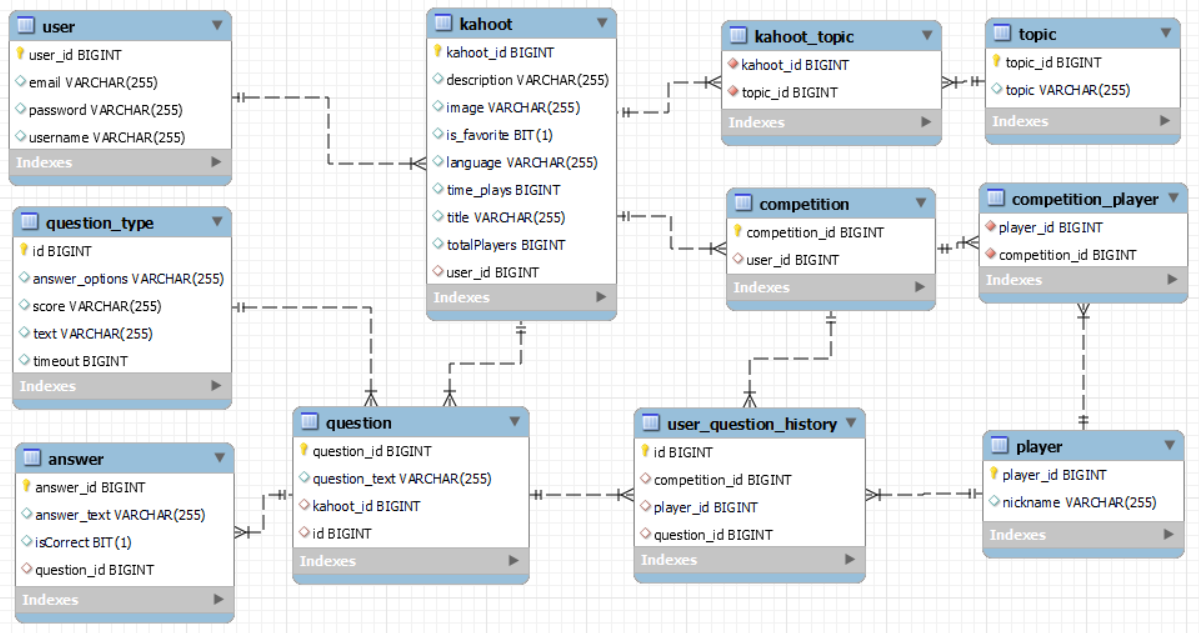
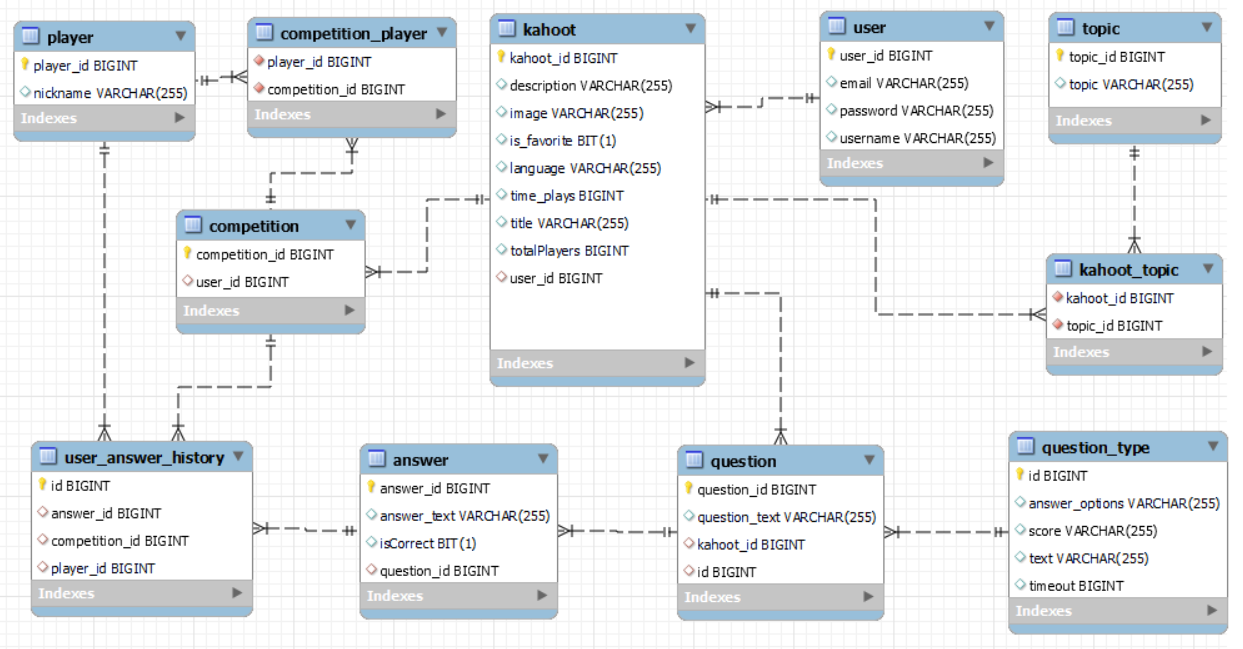
update
new table answer history player

diff --git a/src/main/java/dao/daoImpl/UserQuestionHistoryDao.java b/src/main/java/dao/daoImpl/UserQuestionHistoryDao.java
@@ -8,19 +8,19 @@ import org.hibernate.Transaction;
 
 import HibernateUtils.HibernateUtil;
 import dao.Dao;
-import objects.UserQuestionHistory;
+import objects.UserAnswerHistory;
 
-public class UserQuestionHistoryDao implements Dao<UserQuestionHistory> {
+public class UserQuestionHistoryDao implements Dao<UserAnswerHistory> {
 
 	@Override
-	public UserQuestionHistory get(long id) {
+	public UserAnswerHistory get(long id) {
 		Transaction transaction = null;
-		UserQuestionHistory userQuestionHistory = null;
+		UserAnswerHistory userQuestionHistory = null;
 
 		try (Session session = HibernateUtil.getSessionFactory().openSession()) {
 			transaction = session.beginTransaction();
 
-			userQuestionHistory = session.get(UserQuestionHistory.class, id);
+			userQuestionHistory = session.get(UserAnswerHistory.class, id);
 
 			transaction.commit();
 		} catch (Exception e) {
@@ -34,9 +34,9 @@ public class UserQuestionHistoryDao implements Dao<UserQuestionHistory> {
 
 	@SuppressWarnings("unchecked")
 	@Override
-	public List<UserQuestionHistory> getAll() {
+	public List<UserAnswerHistory> getAll() {
 		Transaction transaction = null;
-		List<UserQuestionHistory> players = new ArrayList<UserQuestionHistory>();
+		List<UserAnswerHistory> players = new ArrayList<UserAnswerHistory>();
 
 		try (Session session = HibernateUtil.getSessionFactory().openSession()) {
 			transaction = session.beginTransaction();
@@ -54,7 +54,7 @@ public class UserQuestionHistoryDao implements Dao<UserQuestionHistory> {
 	}
 
 	@Override
-	public void save(UserQuestionHistory userQuestionHistory) {
+	public void save(UserAnswerHistory userQuestionHistory) {
 		Transaction transaction = null;
 
 		try (Session session = HibernateUtil.getSessionFactory().openSession()) {
@@ -71,7 +71,7 @@ public class UserQuestionHistoryDao implements Dao<UserQuestionHistory> {
 	}
 
 	@Override
-	public void update(UserQuestionHistory userQuestionHistory) {
+	public void update(UserAnswerHistory userQuestionHistory) {
 		Transaction transaction = null;
 
 		try (Session session = HibernateUtil.getSessionFactory().openSession()) {
@@ -89,7 +89,7 @@ public class UserQuestionHistoryDao implements Dao<UserQuestionHistory> {
 	}
 
 	@Override
-	public void delete(UserQuestionHistory userQuestionHistory) {
+	public void delete(UserAnswerHistory userQuestionHistory) {
 		Transaction transaction = null;
 
 		try (Session session = HibernateUtil.getSessionFactory().openSession()) {

diff --git a/src/main/java/objects/Answer.java b/src/main/java/objects/Answer.java
@@ -1,5 +1,7 @@
 package objects;
 
+import java.util.List;
+
 import javax.persistence.CascadeType;
 import javax.persistence.Column;
 import javax.persistence.Entity;
@@ -8,6 +10,7 @@ import javax.persistence.GenerationType;
 import javax.persistence.Id;
 import javax.persistence.JoinColumn;
 import javax.persistence.ManyToOne;
+import javax.persistence.OneToMany;
 import javax.persistence.Table;
 
 @Entity
@@ -28,6 +31,10 @@ public class Answer {
 	@ManyToOne(cascade = CascadeType.ALL)
 	@JoinColumn(name = "question_id")
 	private Question question;
+
+	@OneToMany(mappedBy = "answer", cascade = { CascadeType.PERSIST, CascadeType.MERGE, CascadeType.DETACH,
+			CascadeType.REFRESH })
+	private List<UserAnswerHistory> userAnswerHistories;
 
 	public Answer() {
 		super();
@@ -70,6 +77,14 @@ public class Answer {
 
 	public void setCorrect(boolean isCorrect) {
 		this.isCorrect = isCorrect;
+	}
+
+	public List<UserAnswerHistory> getUserAnswerHistories() {
+		return userAnswerHistories;
+	}
+
+	public void setUserAnswerHistories(List<UserAnswerHistory> userAnswerHistories) {
+		this.userAnswerHistories = userAnswerHistories;
 	}
 
 }

diff --git a/src/main/java/objects/UserAnswerHistory.java b/src/main/java/objects/UserAnswerHistory.java
@@ -11,8 +11,8 @@ import javax.persistence.ManyToOne;
 import javax.persistence.Table;
 
 @Entity
-@Table(name = "user_question_history")
-public class UserQuestionHistory {
+@Table(name = "user_answer_history")
+public class UserAnswerHistory {
 
 	@Id
 	@GeneratedValue(strategy = GenerationType.IDENTITY)
@@ -28,10 +28,10 @@ public class UserQuestionHistory {
 	private Player player;
 
 	@ManyToOne(cascade = CascadeType.ALL)
-	@JoinColumn(name = "question_id")
-	private Question question;
+	@JoinColumn(name = "answer_id")
+	private Answer answer;
 
-	public UserQuestionHistory() {
+	public UserAnswerHistory() {
 		super();
 	}
 
@@ -59,12 +59,12 @@ public class UserQuestionHistory {
 		this.player = player;
 	}
 
-	public Question getQuestion() {
-		return question;
+	public Answer getAnswer() {
+		return answer;
 	}
 
-	public void setQuestion(Question question) {
-		this.question = question;
+	public void setAnswer(Answer answer) {
+		this.answer = answer;
 	}
 
 }

diff --git a/src/main/java/objects/Competition.java b/src/main/java/objects/Competition.java
@@ -32,7 +32,7 @@ public class Competition {
 
 	@OneToMany(mappedBy = "competition", cascade = { CascadeType.PERSIST, CascadeType.MERGE, CascadeType.DETACH,
 			CascadeType.REFRESH })
-	private List<UserQuestionHistory> userQuestionHistories;
+	private List<UserAnswerHistory> userQuestionHistories;
 
 	public Competition() {
 		super();
@@ -67,11 +67,11 @@ public class Competition {
 		this.players = players;
 	}
 
-	public List<UserQuestionHistory> getUserQuestionHistories() {
+	public List<UserAnswerHistory> getUserQuestionHistories() {
 		return userQuestionHistories;
 	}
 
-	public void setUserQuestionHistories(List<UserQuestionHistory> userQuestionHistories) {
+	public void setUserQuestionHistories(List<UserAnswerHistory> userQuestionHistories) {
 		this.userQuestionHistories = userQuestionHistories;
 	}
 

diff --git a/src/main/java/objects/Player.java b/src/main/java/objects/Player.java
@@ -33,7 +33,7 @@ public class Player {
 
 	@OneToMany(mappedBy = "player", cascade = { CascadeType.PERSIST, CascadeType.MERGE, CascadeType.DETACH,
 			CascadeType.REFRESH })
-	private List<UserQuestionHistory> userQuestionHistories;
+	private List<UserAnswerHistory> userQuestionHistories;
 
 	public Player() {
 		super();
@@ -68,11 +68,11 @@ public class Player {
 		this.competitions = competitions;
 	}
 
-	public List<UserQuestionHistory> getUserQuestionHistories() {
+	public List<UserAnswerHistory> getUserQuestionHistories() {
 		return userQuestionHistories;
 	}
 
-	public void setUserQuestionHistories(List<UserQuestionHistory> userQuestionHistories) {
+	public void setUserQuestionHistories(List<UserAnswerHistory> userQuestionHistories) {
 		this.userQuestionHistories = userQuestionHistories;
 	}
 

diff --git a/src/main/java/HibernateUtils/HibernateUtil.java b/src/main/java/HibernateUtils/HibernateUtil.java
@@ -16,7 +16,7 @@ import objects.Question;
 import objects.QuestionType;
 import objects.Topic;
 import objects.User;
-import objects.UserQuestionHistory;
+import objects.UserAnswerHistory;
 
 public class HibernateUtil {
 	private static SessionFactory sessionFactory;
@@ -50,7 +50,7 @@ public class HibernateUtil {
 				configuration.addAnnotatedClass(QuestionType.class);
 				configuration.addAnnotatedClass(Topic.class);
 				configuration.addAnnotatedClass(User.class);
-				configuration.addAnnotatedClass(UserQuestionHistory.class);
+				configuration.addAnnotatedClass(UserAnswerHistory.class);
 
 				ServiceRegistry serviceRegistry = new StandardServiceRegistryBuilder()
 						.applySettings(configuration.getProperties()).build();

diff --git a/src/main/java/objects/Question.java b/src/main/java/objects/Question.java
@@ -37,10 +37,6 @@ public class Question {
 			CascadeType.REFRESH })
 	private List<Answer> answers;
 
-	@OneToMany(mappedBy = "question", cascade = { CascadeType.PERSIST, CascadeType.MERGE, CascadeType.DETACH,
-			CascadeType.REFRESH })
-	private List<UserQuestionHistory> userQuestionHistories;
-
 	public Question() {
 		super();
 	}
@@ -88,14 +84,6 @@ public class Question {
 
 	public void setAnswers(List<Answer> answers) {
 		this.answers = answers;
-	}
-
-	public List<UserQuestionHistory> getUserQuestionHistories() {
-		return userQuestionHistories;
-	}
-
-	public void setUserQuestionHistories(List<UserQuestionHistory> userQuestionHistories) {
-		this.userQuestionHistories = userQuestionHistories;
 	}
 
 }
